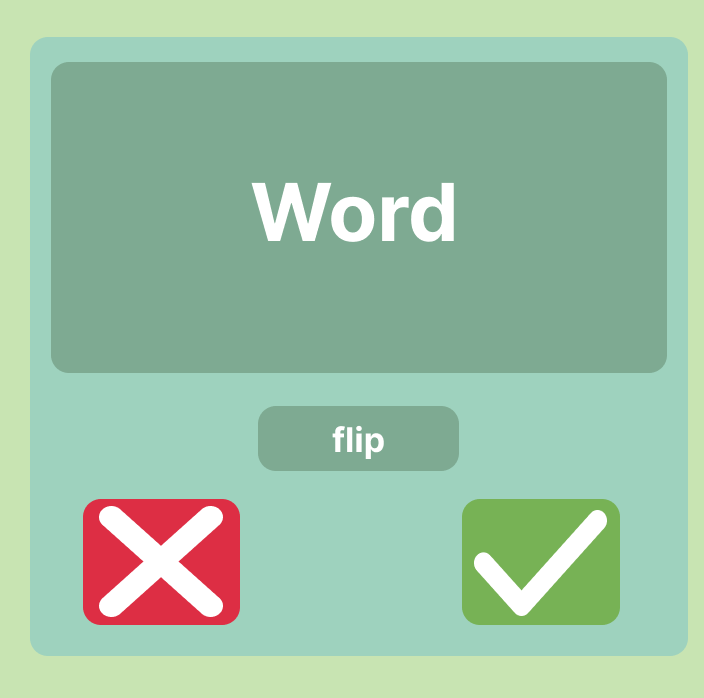
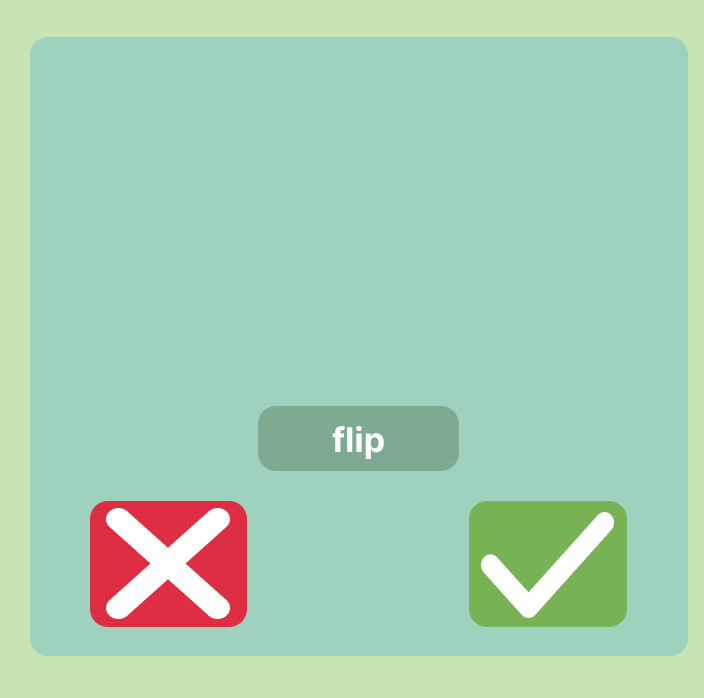
added flashcard elements

diff --git a/app/main.py b/app/main.py
@@ -39,6 +39,7 @@ class MainPanel(tk.Tk):
         self.frames["word_frame"] = WordFrame(self)
         self.frames["expression_frame"] = ExpressionSection(self)
         self.frames["full_word_list"] = FullWordList(self)
+        self.frames["flashcard_frame"] = Flashcard(self)
 
         self.open_initial_frames()
         self.frames["right_frame"].set_main_panel_button_visibility(False)
@@ -471,10 +472,10 @@ class ExpressionSection(tk.Frame):
         file_path = os.path.join(data_directory, f"{session_name}.json")
         if os.path.exists(file_path):
             messagebox.showinfo("Session name error", "Session with this name exists. Chose another name.")
-            self.safe_as_label.delete(0, 'end')
         else:
             save_data(self.expressions, self.definitions, session_name)
-            self.safe_as_label.delete(0, 'end')
+
+        self.safe_as_label.delete(0, 'end')
 
     def append_arrays(self):
         x = self.expression_entry.get()
@@ -510,12 +511,53 @@ class FullWordList(tk.Frame):
             for column in range(3):
                 language_name = languages[language_index][:-5].capitalize()
                 button = tk.Button(self, background="#7EAA92", fg="#FFD9B7", bd=0, width=button_width,
-                                   height=button_height, text=language_name, font=('Inter', 12, "bold"))
+                                   height=button_height, text=language_name, font=('Inter', 12, "bold"),
+                                   command=lambda: self.master.show_frame("flashcard_frame"))
                 button.place(x=x_pos[column], y=y_pos[row])
                 language_index += 1
 
                 if language_index >= len(languages):
                     break
+
+
+class Flashcard(tk.Frame):
+    def __init__(self, master=None):
+        super().__init__(master)
+        self.master = master
+        self.configure(width=696, height=698)
+        self.background_image = PhotoImage(file=
+                                           "./components/graphical_components/flashcard/flashcard_panel.png")
+        self.background = tk.Label(self, image=self.background_image)
+        self.background.place(relwidth=1, relheight=1)
+
+        self.flashcard_front_bg = PhotoImage(file="components/graphical_components/flashcard/flashcard_front.png")
+        self.flashcard_back_bg = PhotoImage(file="components/graphical_components/flashcard/flashcard_back.png")
+        self.flip_button_bg = PhotoImage(file="components/graphical_components/flashcard/flip_button.png")
+        self.canvas_background = PhotoImage(file="components/graphical_components/flashcard/canvas_bg.png")
+        self.yes_button_bg = PhotoImage(file="components/graphical_components/flashcard/yes_button.png")
+        self.no_button_bg = PhotoImage(file="components/graphical_components/flashcard/no_button.png")
+
+        self.canvas = tk.Canvas(self, width=616, height=311, bg="#7EAA92", highlightthickness=0)
+        self.canvas_bg = self.canvas.create_image(300, 200, anchor=tk.NW, image=self.flashcard_front_bg)
+        card_language = self.canvas.create_text(300, 50, text="Language", font=("Inter", 30, "normal"), fill="#FFD9B7")
+        card_word = self.canvas.create_text(300, 163, text="word", font=("Inter", 80, "bold"), fill="#FFFFFF")
+        self.canvas.place(x=47, y=62)
+
+        self.flip_button = tk.Button(self, image=self.flip_button_bg, command=self.next_card, bd=0, bg="#9ED2BE")
+        self.flip_button.place(x=254, y=406)
+        self.unknown_button = tk.Button(self, image=self.no_button_bg, command=self.next_card, bd=0, bg="#9ED2BE")
+        self.unknown_button.place(x=86, y=501)
+
+        self.known_button = tk.Button(self, image=self.yes_button_bg, command=self.next_card, bd=0, bg="#9ED2BE")
+        self.known_button.place(x=465, y=501)
+
+
+    def next_card(self):
+        pass
+
+
+
+
 
 
 if __name__ == "__main__":
